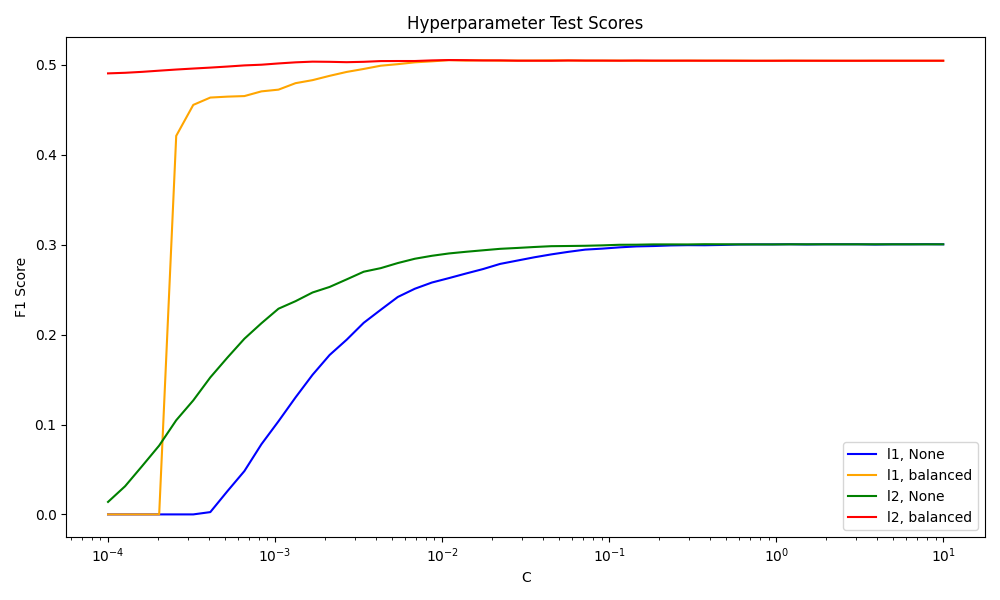
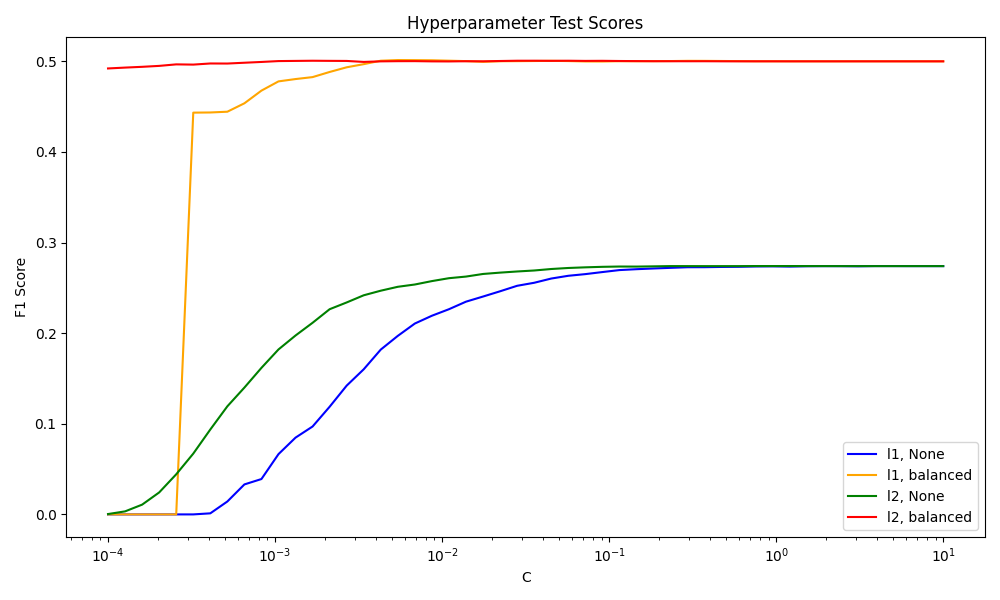
changed results terminal output for linear model

diff --git a/project_codes/linear_model.py b/project_codes/linear_model.py
@@ -8,9 +8,14 @@ from data_processing import ProcessedData
 from sklearn.linear_model import LogisticRegression
 from sklearn.model_selection import cross_validate 
 from sklearn.metrics import classification_report
-from sklearn.metrics import confusion_matrix, ConfusionMatrixDisplay
+from sklearn.metrics import f1_score, confusion_matrix, ConfusionMatrixDisplay
 
 import warnings
+from pathlib import Path
+
+# add path for visualizations
+BASE_DIR = Path(__file__).resolve().parent.parent
+PATH = BASE_DIR / "final_report" / "plots"
 
 # supress penalty deprecation warning, since it still works with liblinear
 warnings.filterwarnings('ignore', message=".*penalty.*deprecated.*")
@@ -49,7 +54,12 @@ class LinearModel:
         # save to the model to plot later
         self.scores = scores
         (best_penalty, best_C, best_class_weight), (mean_train, mean_test) = max(scores.items(), key=lambda item: item[1][1])
-        print(f'Combination with the highest score: [penalty = {best_penalty}, C = {best_C}, and class_weight = {best_class_weight}] \n \t mean train score: {mean_train} \n \t mean test score: {mean_test}')
+        print(f'''----- Cross Validation Results -----
+              \n penalty = {best_penalty} 
+              \n C = {best_C} 
+              \n class_weight = {best_class_weight} 
+              \n mean train score: {mean_train} 
+              \n mean test score: {mean_test} \n''')
         return best_penalty, best_C, best_class_weight, mean_train, mean_test
     
     def plot_hyperparams(self, scores):
@@ -76,7 +86,7 @@ class LinearModel:
         ax.set_title('Hyperparameter Test Scores')
         ax.legend()
         plt.tight_layout()
-        plt.savefig('linear_model_hyperparams.png')
+        plt.savefig(PATH / 'linear_model_hyperparams.png')
     
     def train(self):
         best_penalty, best_C, best_class_weight, _, _ = self.find_hyperparams()
@@ -85,28 +95,40 @@ class LinearModel:
         self.model.fit(self.data.train_x, self.data.train_y)
 
         coef_table = pd.DataFrame(zip(self.data.feature_order, np.transpose(self.model.coef_)), columns=['features', 'coef'])
-        coef_table.to_csv('linear_model_coefficients.csv', index=False)
+        coef_table.to_csv(PATH / 'linear_model_coefficients.csv', index=False)
 
         return self.model
 
-    def evaluate(self):
-        prediction = self.model.predict(self.data.test_x)
+    def test(self):
+        predictions = self.model.predict(self.data.test_x)
+        # calculate the F1 score
+        f1 = f1_score(self.data.test_y, predictions)
+
 
         # create the confustion matrix
-        cm = confusion_matrix(self.data.test_y, prediction)
+        cm = confusion_matrix(self.data.test_y, predictions)
+        # access false positive and false negative rates
+        tn, fp, fn, tp = cm[0,0], cm[0,1], cm[1,0], cm[1,1]
 
-        # plot the confusion matrix
+        # plot the confusion matrix and save file for the final report
         display = ConfusionMatrixDisplay(confusion_matrix=cm, display_labels=['voted', 'not_voted'])
         display.plot()
-        plt.savefig('linear_model_confusion_matrix.png')
+        plt.savefig(PATH / 'linear_model_confusion_matrix.png')
+
+        # print the results
+        print("----- Test Results ----- \n")
+        print(f"F1 Score: {f1} \n")
+
+        print(f"Confusion matrix: \n {cm} \n")
+        print(f"False negative rate: {fn / (fn + tp)} \n")
+        print(f"False positive rate: {fp / (fp + tn)} \n")
         
-        # return the classification report
-        report = classification_report(self.data.test_y, prediction)
-        print(f"Classification report: \n {report}")   
-        return report
+        # print the classification report that includes other metrics
+        report = classification_report(self.data.test_y, predictions)
+        print(f"Other test metrics: \n {report}")   
 
 if __name__ == "__main__":
     lm = LinearModel()
     lm.train()
     lm.plot_hyperparams(lm.scores)
-    lm.evaluate()
+    lm.test()
